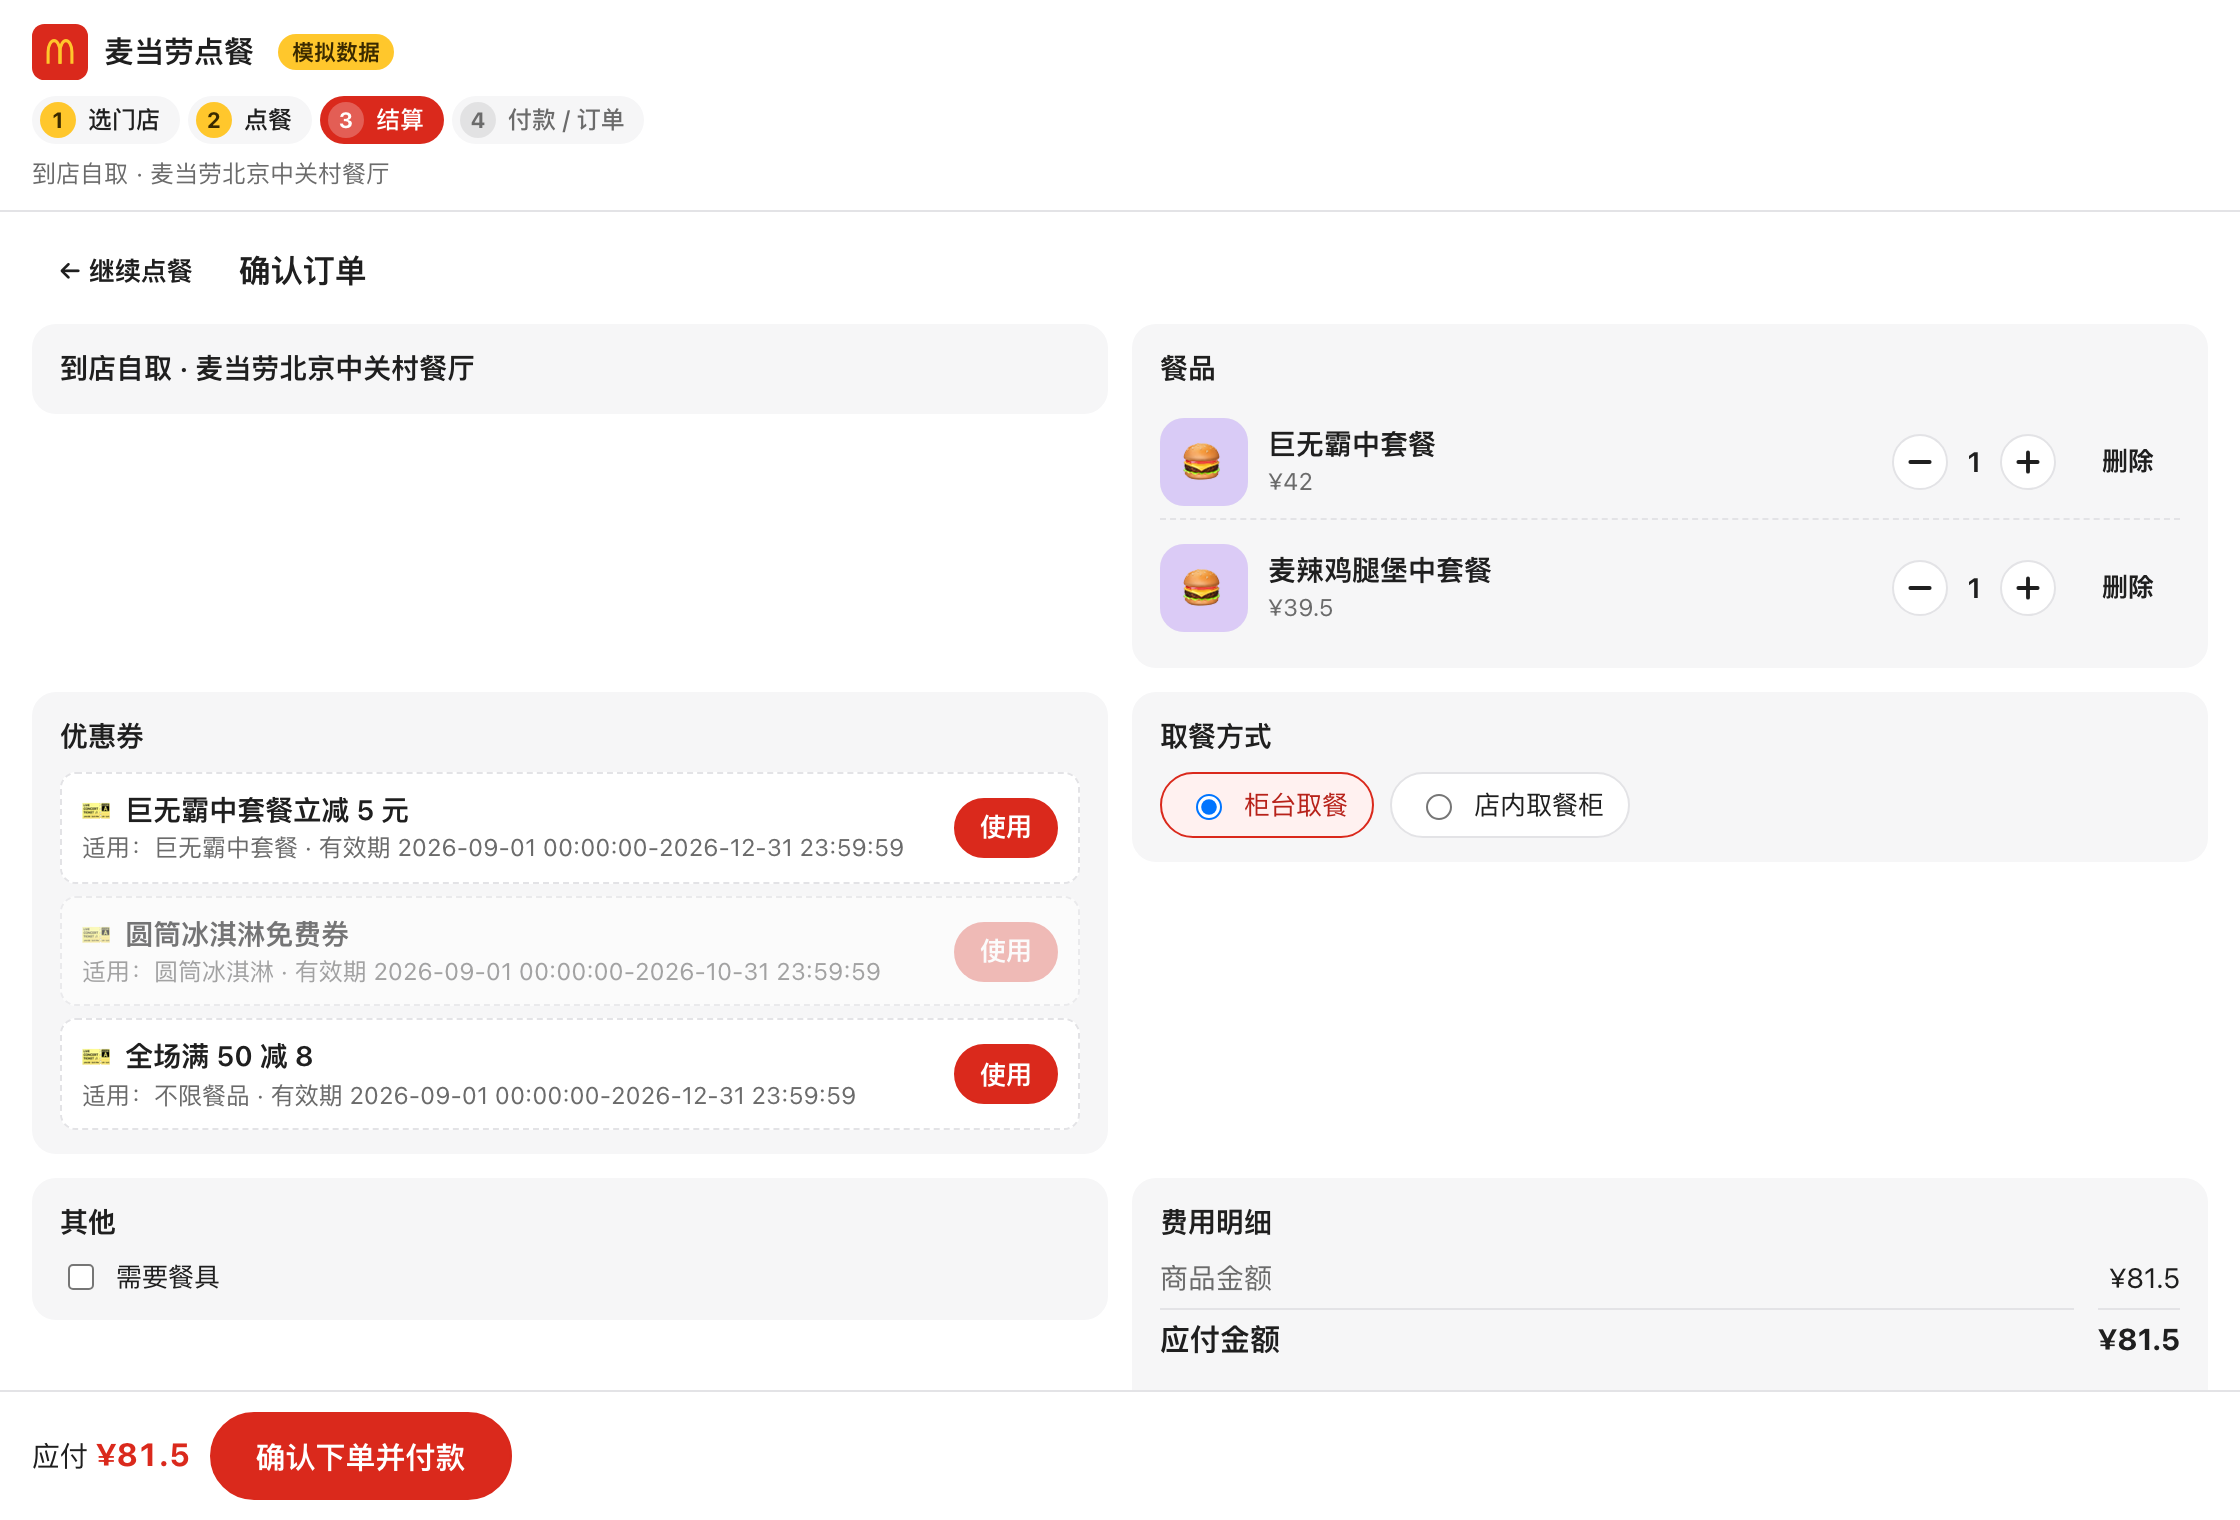
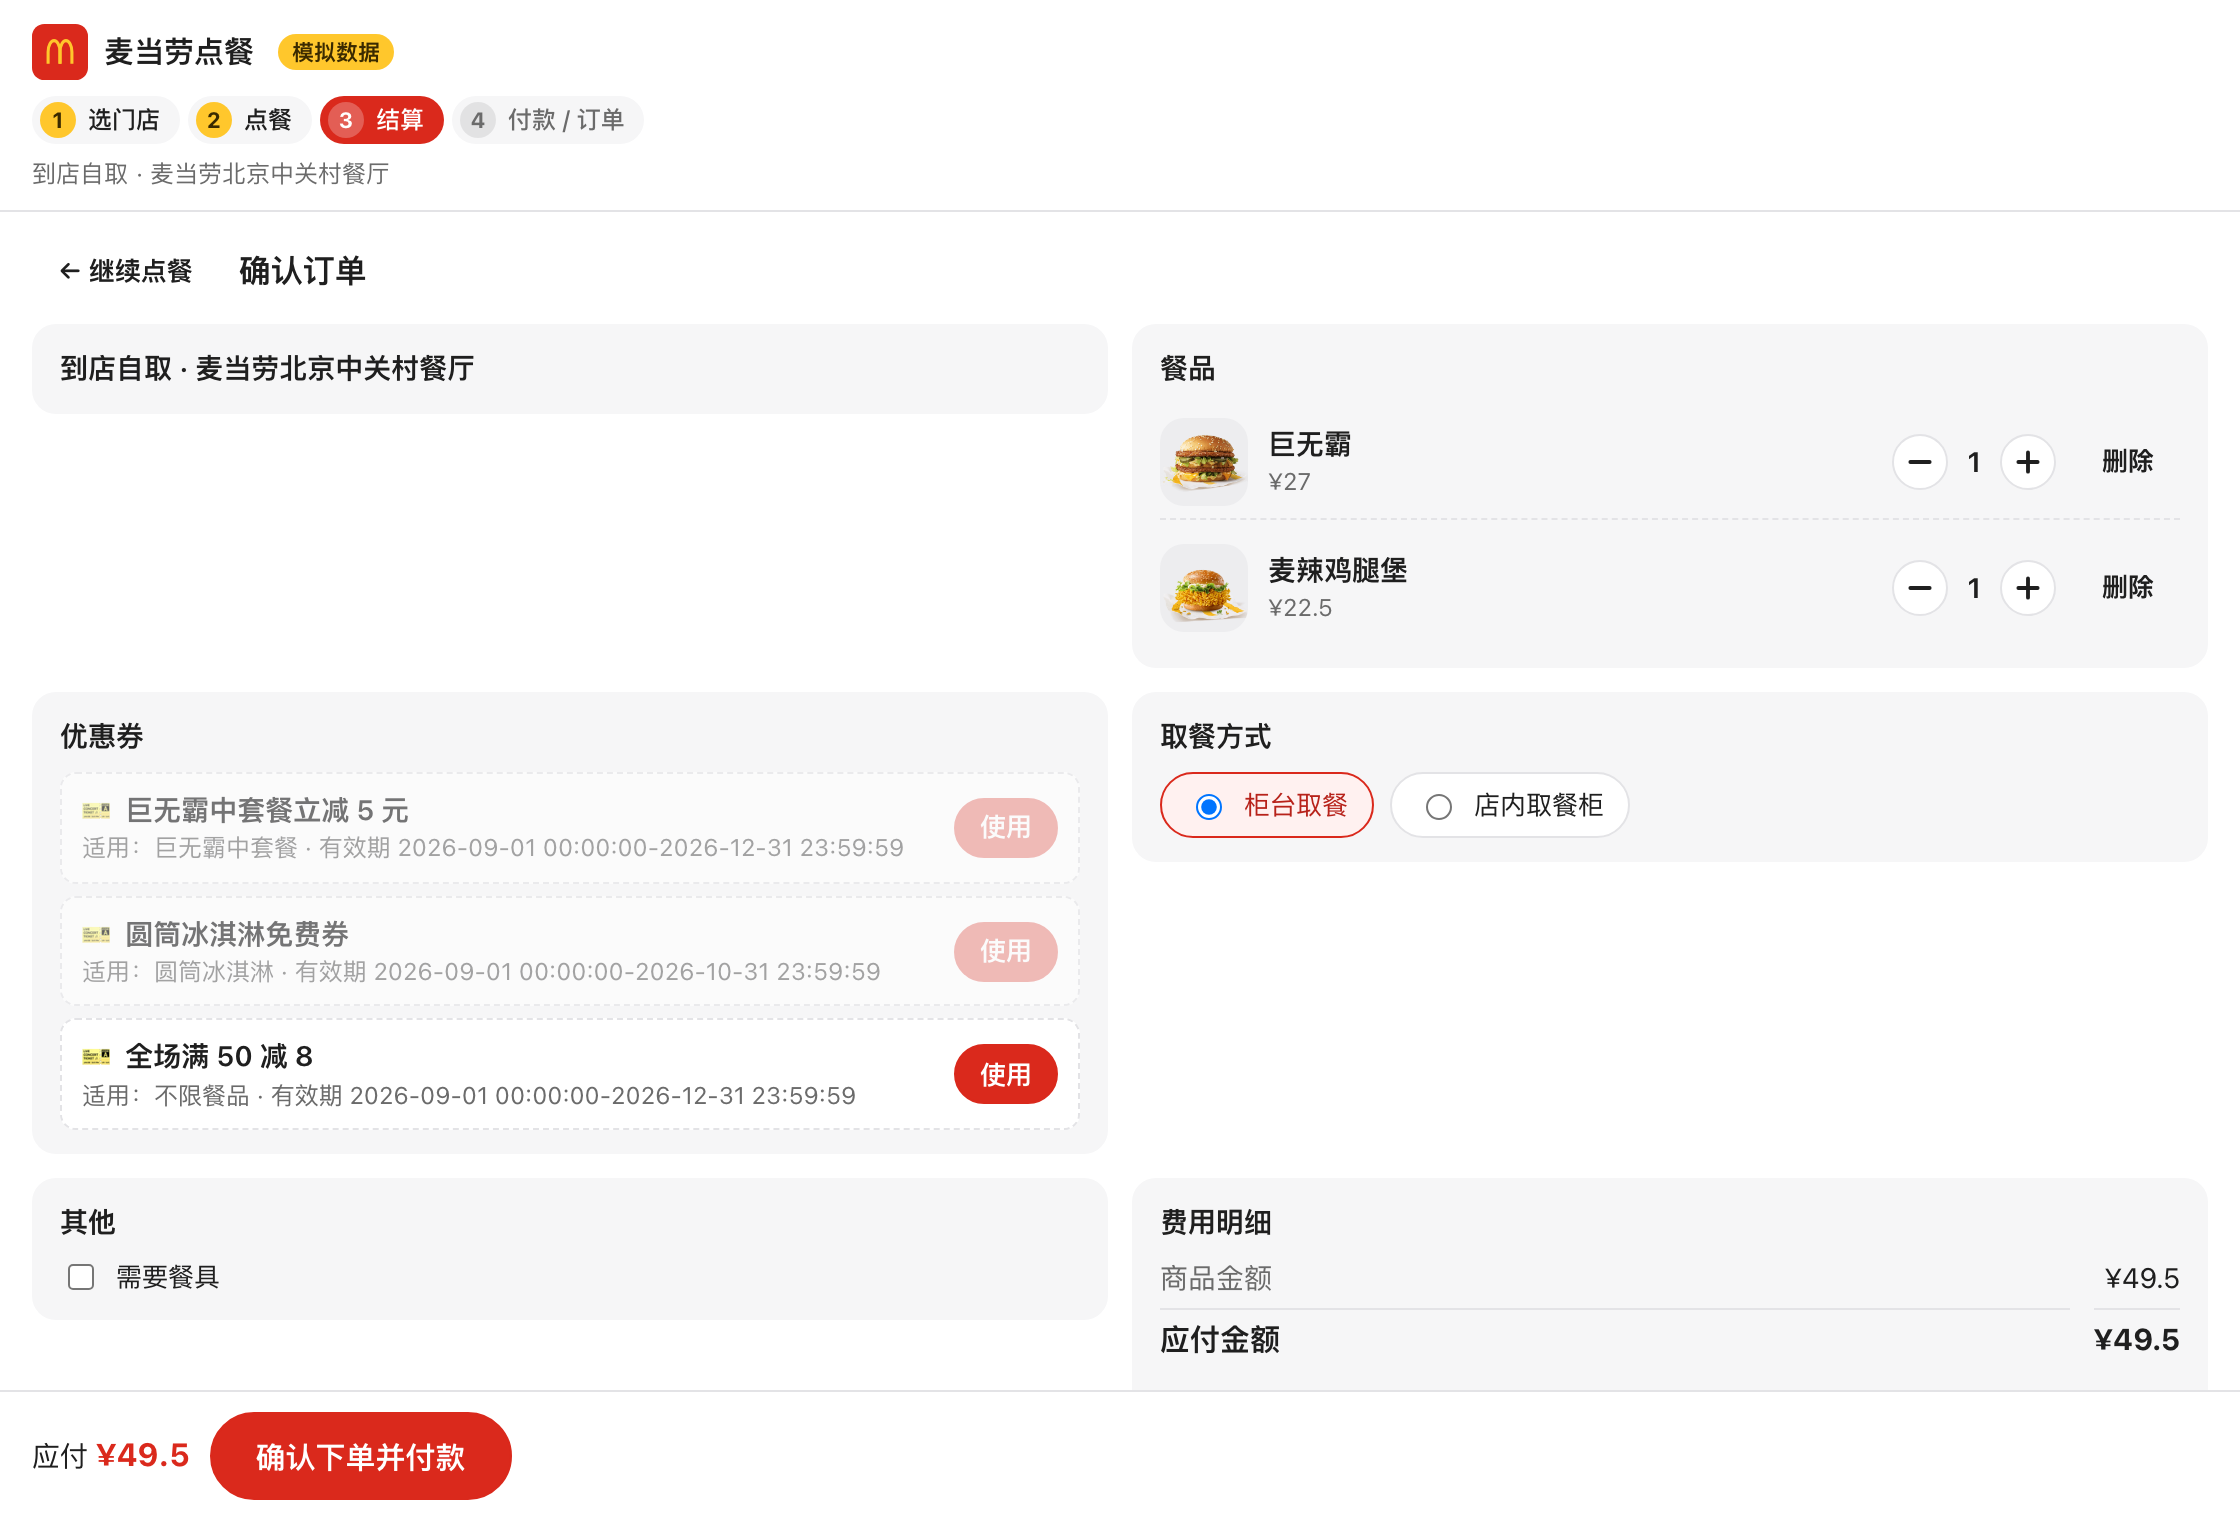
docs: use static diagrams and screenshots with official product images

diff --git a/README.md b/README.md
@@ -6,17 +6,7 @@ Browse the menu, customize meals, apply coupons and follow your order inside an 
 
 ## Architecture
 
-```mermaid
-flowchart LR
-    C["MCP Apps client<br/>Chat + ordering UI"] <-->|"stdio / HTTP"| S["mcd-mcp<br/>Tools + UI resource"]
-    S <-->|"JSON-RPC"| API["McDonald's MCP<br/>Official service"]
-    classDef client fill:#e0f2fe,stroke:#0284c7,color:#0f172a
-    classDef service fill:#ecfdf5,stroke:#059669,color:#0f172a
-    classDef external fill:#f1f5f9,stroke:#64748b,color:#0f172a
-    class C client
-    class S service
-    class API external
-```
+![MCP Apps client connected through mcd-mcp to the official service](docs/architecture.png)
 
 The host loads the bundled UI and forwards its tool calls to this server. Store search, menu browsing and checkout happen in the interface without another model turn. See [MCP Apps](https://modelcontextprotocol.io/extensions/apps/overview) for the host protocol.
 
@@ -24,7 +14,7 @@ The host loads the bundled UI and forwards its tool calls to this server. Store 
 
 ## Screenshots
 
-Captured from the actual UI with built-in mock data and placeholder food images. Prices and stores are examples; no real order was placed.
+Actual app UI with product images from the [McDonald's website](https://www.mcdonalds.com.cn/product/mcdonalds/). Prices and stores use sample data.
 
 **Menu and shopping cart**
 

diff --git a/README.zh.md b/README.zh.md
@@ -6,17 +6,7 @@
 
 ## 架构
 
-```mermaid
-flowchart LR
-    C["MCP Apps 客户端<br/>对话 + 点餐界面"] <-->|"stdio / HTTP"| S["mcd-mcp<br/>工具 + 界面资源"]
-    S <-->|"JSON-RPC"| API["麦当劳官方 MCP<br/>菜单 + 订单"]
-    classDef client fill:#e0f2fe,stroke:#0284c7,color:#0f172a
-    classDef service fill:#ecfdf5,stroke:#059669,color:#0f172a
-    classDef external fill:#f1f5f9,stroke:#64748b,color:#0f172a
-    class C client
-    class S service
-    class API external
-```
+![MCP Apps 客户端通过 mcd-mcp 连接官方服务](docs/architecture.zh.png)
 
 客户端加载随服务提供的界面，并把界面的工具调用转给本服务。选店、浏览菜单和结算都可以直接点击完成，不需要反复与模型对话。宿主协议见 [MCP Apps](https://modelcontextprotocol.io/extensions/apps/overview)。
 
@@ -24,7 +14,7 @@ flowchart LR
 
 ## 界面截图
 
-以下是实际界面搭配内置模拟数据和餐品占位图的截图。价格和门店仅作演示，未创建真实订单。
+实际界面截图，商品图片来自[麦当劳官网](https://www.mcdonalds.com.cn/product/mcdonalds/)；价格和门店使用演示数据。
 
 **菜单与购物车**
 
